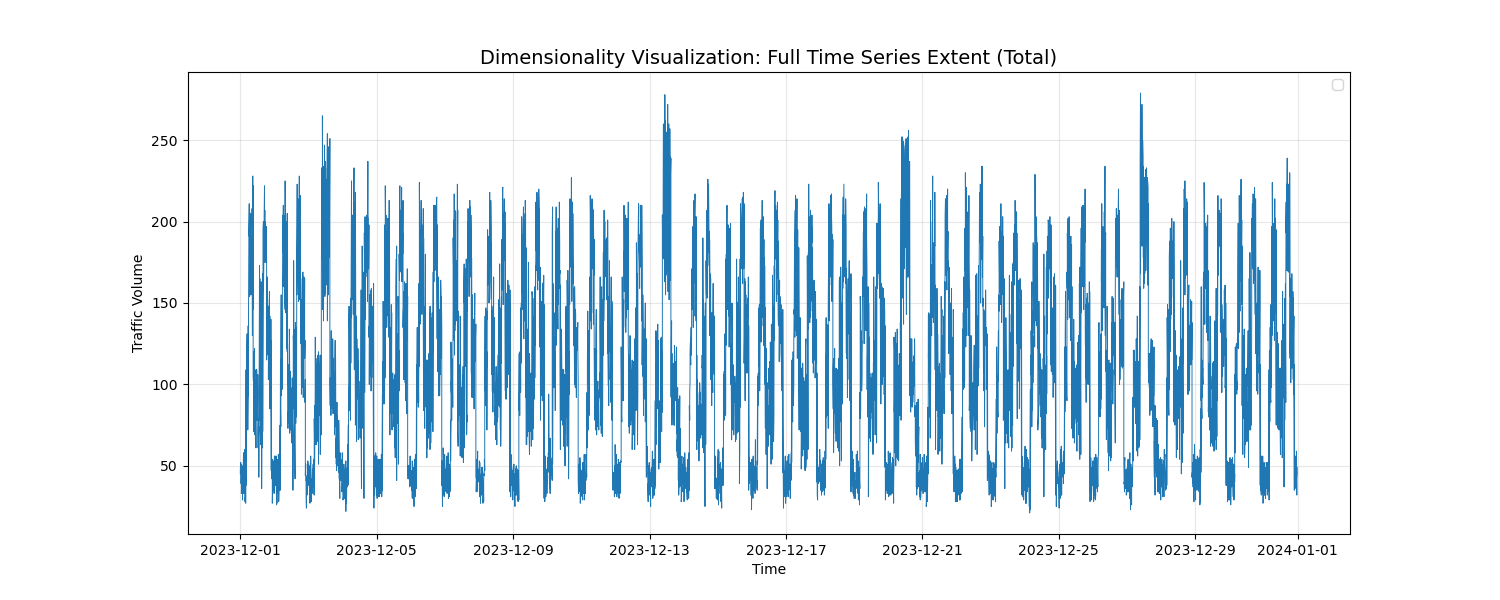
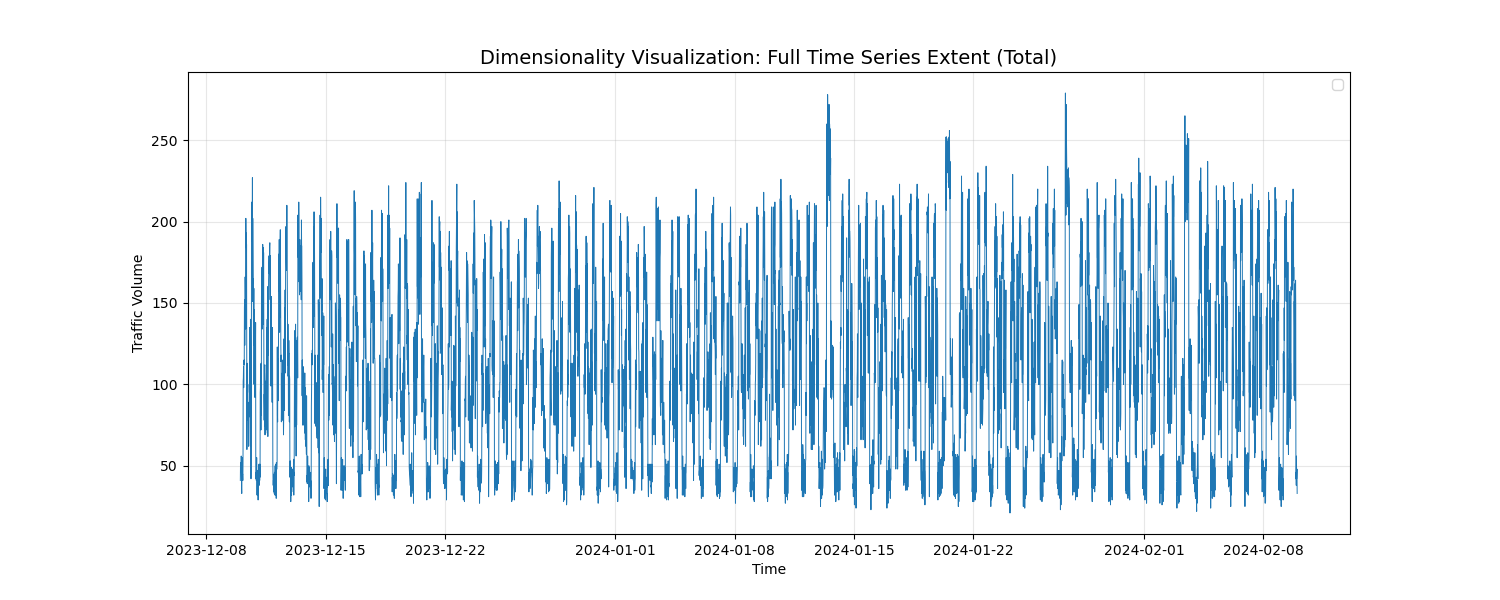
fix data_loader and missing values dataset traffic

Changed region(s): [[0.1533, 0.21, 0.8893, 0.84], [0.092, 0.9, 0.8893, 0.93]]

diff --git a/Lab5/traffic/code/data_loader.py b/Lab5/traffic/code/data_loader.py
@@ -3,16 +3,25 @@ import pandas as pd
 def load_data(file_path='Datasets/TrafficTwoMonth.csv'):
     df = pd.read_csv(file_path)
 
+    ## Data for TWO months
+    df['Month'] = None
+    df.loc[:2111, 'Month'] = '2023-12-'
+    df.loc[2112:5087, 'Month'] = '2024-01-'
+    df.loc[5088:, 'Month'] = '2024-02-'
+
     df['Datetime_Str'] = (
-        '2023-12-' + 
+        df['Month'] + 
         df['Date'].astype(str).str.zfill(2) + 
         ' ' + 
         df['Time'].astype(str)
     )
 
     df['Datetime'] = pd.to_datetime(df['Datetime_Str'], format='%Y-%m-%d %I:%M:%S %p')
+    df.drop(columns=['Month'], inplace=True)
 
     df = df.set_index('Datetime').sort_index()
     df.drop(columns=['Datetime_Str'], inplace=True)
     
     return df
+
+print(load_data().head())

diff --git a/Lab5/traffic/code/dimensionality.py b/Lab5/traffic/code/dimensionality.py
@@ -29,7 +29,8 @@ if not df.empty:
     print(f"   - End Date:       {end_date}")
     print(f"   - Total Duration: {time_span}")
 
-    # C. Target Completeness
+    FREQ = '15min' 
+    df = df.asfreq(FREQ)
     missing_vals = df[target_col].isnull().sum()
     missing_pct = (missing_vals / n_obs) * 100
     
